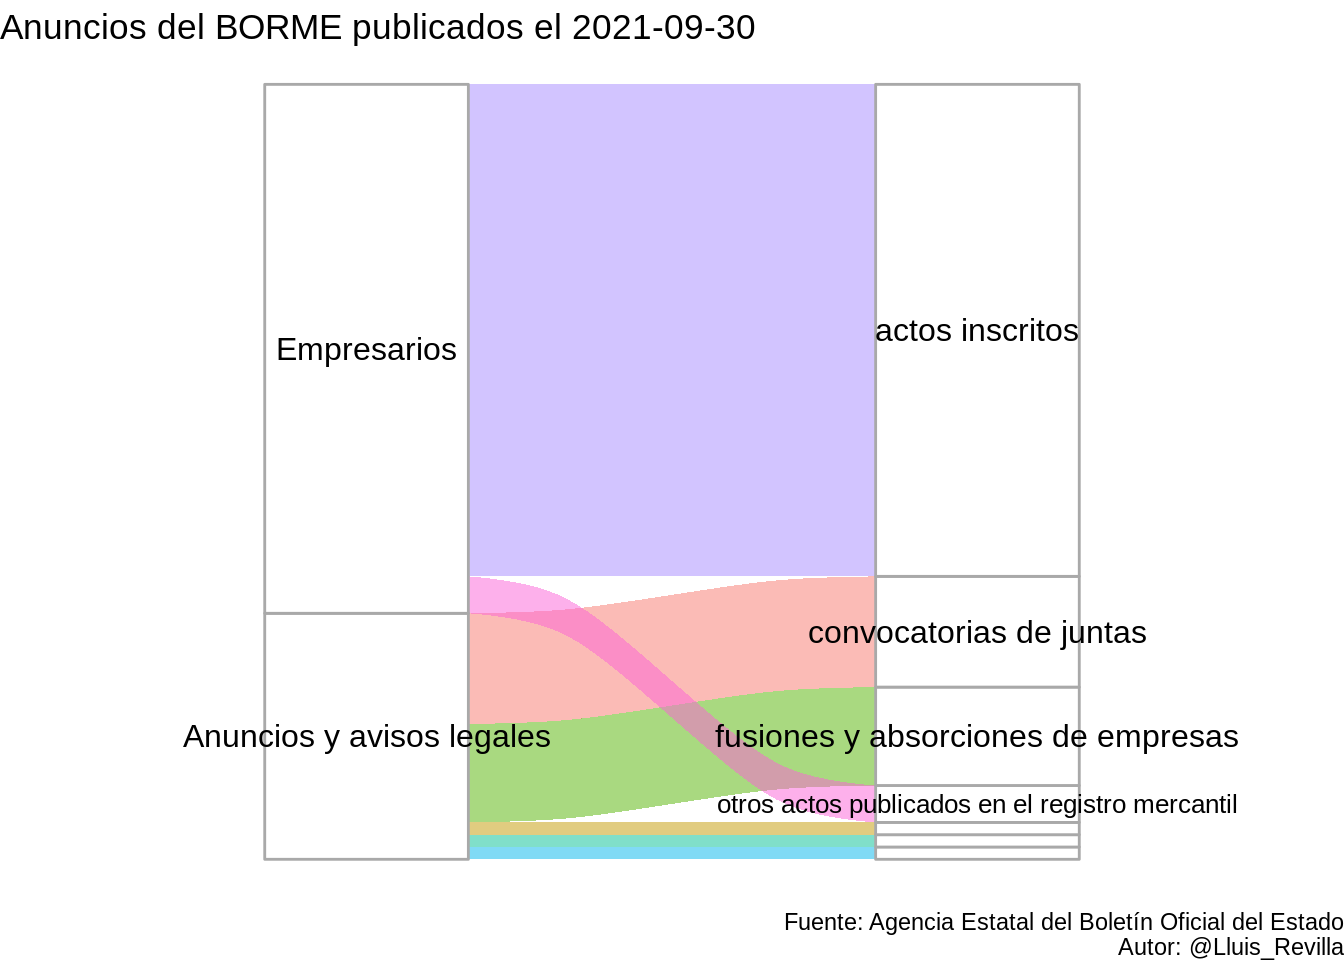
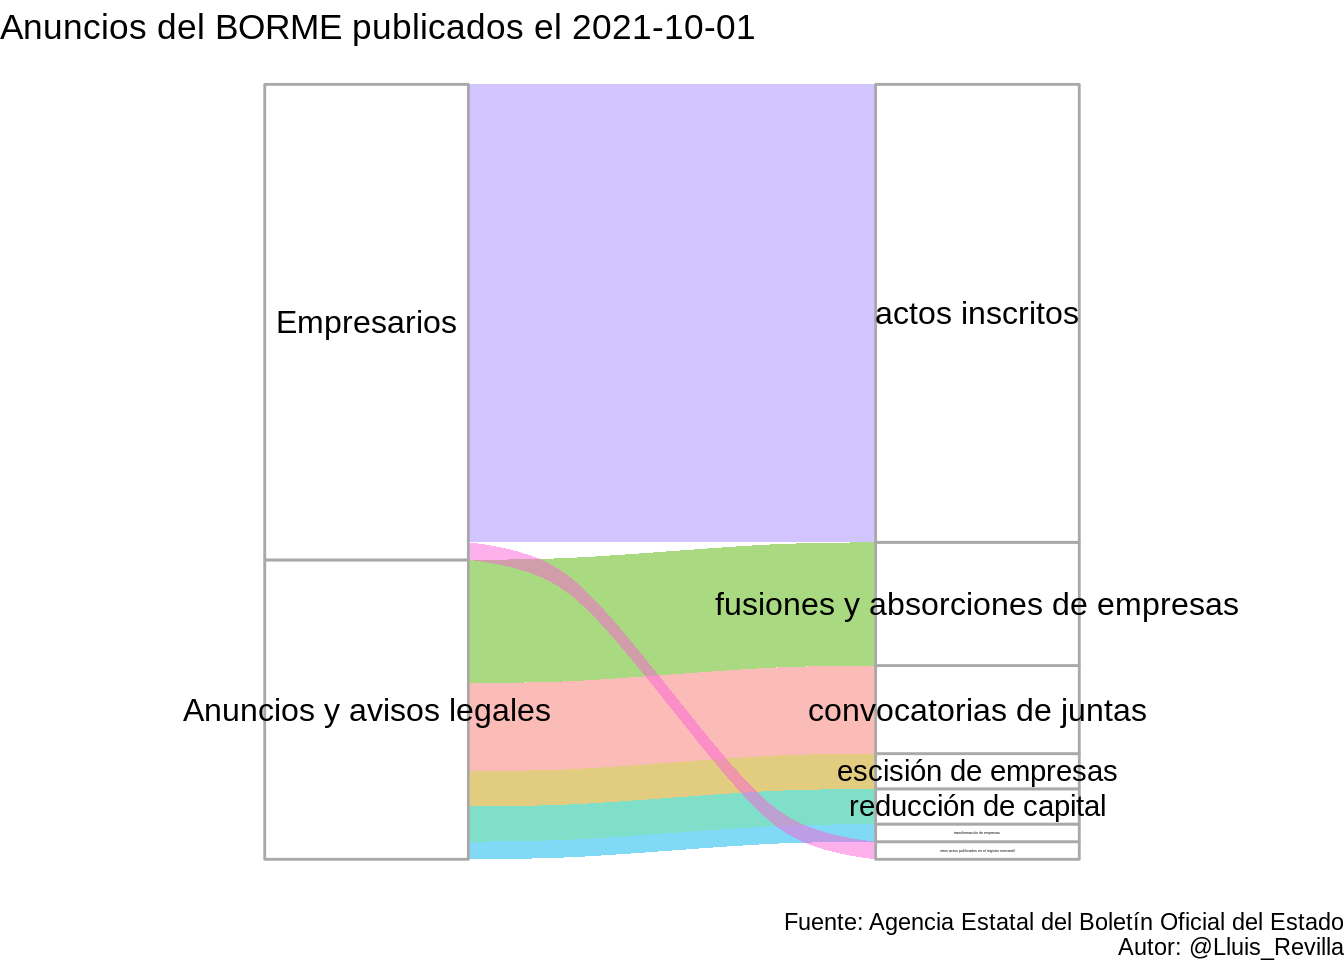
Automatic commit to update last BORME

diff --git a/docs/last_BORME.html b/docs/last_BORME.html
@@ -377,14 +377,14 @@ $(document).ready(function () {
 
 <div id="resumen-gráfico" class="section level1">
 <h1>Resumen gráfico</h1>
-<p>Esta página web contiene el último sumario del BORME publicado el 2021-09-30 con 63 publicaciones.</p>
+<p>Esta página web contiene el último sumario del BORME publicado el 2021-10-01 con 44 publicaciones.</p>
 <p><img src="last_BORME_files/figure-html/graphics-1.png" width="672" /></p>
 </div>
 <div id="tabla-de-publicaciones" class="section level1">
 <h1>Tabla de publicaciones</h1>
 <p>Aquí está la tabla completa con enlaces a las publicaciones:</p>
-<div id="htmlwidget-aa1e0ac43d76da0dd42a" style="width:100%;height:auto;" class="datatables html-widget"></div>
-<script type="application/json" data-for="htmlwidget-aa1e0ac43d76da0dd42a">{"x":{"filter":"top","filterHTML":"<tr>\n  <td><\/td>\n  <td data-type=\"character\" style=\"vertical-align: top;\">\n    <div class=\"form-group has-feedback\" style=\"margin-bottom: auto;\">\n      <input type=\"search\" placeholder=\"All\" class=\"form-control\" style=\"width: 100%;\"/>\n      <span class=\"glyphicon glyphicon-remove-circle form-control-feedback\"><\/span>\n    <\/div>\n  <\/td>\n  <td data-type=\"character\" style=\"vertical-align: top;\">\n    <div class=\"form-group has-feedback\" style=\"margin-bottom: auto;\">\n      <input type=\"search\" placeholder=\"All\" class=\"form-control\" style=\"width: 100%;\"/>\n      <span class=\"glyphicon glyphicon-remove-circle form-control-feedback\"><\/span>\n    <\/div>\n  <\/td>\n  <td data-type=\"character\" style=\"vertical-align: top;\">\n    <div class=\"form-group has-feedback\" style=\"margin-bottom: auto;\">\n      <input type=\"search\" placeholder=\"All\" class=\"form-control\" style=\"width: 100%;\"/>\n      <span class=\"glyphicon glyphicon-remove-circle form-control-feedback\"><\/span>\n    <\/div>\n  <\/td>\n  <td data-type=\"character\" style=\"vertical-align: top;\">\n    <div class=\"form-group has-feedback\" style=\"margin-bottom: auto;\">\n      <input type=\"search\" placeholder=\"All\" class=\"form-control\" style=\"width: 100%;\"/>\n      <span class=\"glyphicon glyphicon-remove-circle form-control-feedback\"><\/span>\n    <\/div>\n  <\/td>\n<\/tr>","data":[["1","2","3","4","5","6","7","8","9","10","11","12","13","14","15","16","17","18","19","20","21","22","23","24","25","26","27","28","29","30","31","32","33","34","35","36","37","38","39","40","41","42","43","44","45","46","47","48","49","50","51","52","53","54","55","56","57","58","59","60","61","62","63"],["SECCIÓN PRIMERA. Empresarios","SECCIÓN PRIMERA. Empresarios","SECCIÓN PRIMERA. Empresarios","SECCIÓN PRIMERA. Empresarios","SECCIÓN PRIMERA. Empresarios","SECCIÓN PRIMERA. Empresarios","SECCIÓN PRIMERA. Empresarios","SECCIÓN PRIMERA. Empresarios","SECCIÓN PRIMERA. Empresarios","SECCIÓN PRIMERA. Empresarios","SECCIÓN PRIMERA. Empresarios","SECCIÓN PRIMERA. Empresarios","SECCIÓN PRIMERA. Empresarios","SECCIÓN PRIMERA. Empresarios","SECCIÓN PRIMERA. Empresarios","SECCIÓN PRIMERA. Empresarios","SECCIÓN PRIMERA. Empresarios","SECCIÓN PRIMERA. Empresarios","SECCIÓN PRIMERA. Empresarios","SECCIÓN PRIMERA. Empresarios","SECCIÓN PRIMERA. Empresarios","SECCIÓN PRIMERA. Empresarios","SECCIÓN PRIMERA. Empresarios","SECCIÓN PRIMERA. Empresarios","SECCIÓN PRIMERA. Empresarios","SECCIÓN PRIMERA. Empresarios","SECCIÓN PRIMERA. Empresarios","SECCIÓN PRIMERA. Empresarios","SECCIÓN PRIMERA. Empresarios","SECCIÓN PRIMERA. Empresarios","SECCIÓN PRIMERA. Empresarios","SECCIÓN PRIMERA. Empresarios","SECCIÓN PRIMERA. Empresarios","SECCIÓN PRIMERA. Empresarios","SECCIÓN PRIMERA. Empresarios","SECCIÓN PRIMERA. Empresarios","SECCIÓN PRIMERA. Empresarios","SECCIÓN PRIMERA. Empresarios","SECCIÓN PRIMERA. Empresarios","SECCIÓN PRIMERA. Empresarios","SECCIÓN PRIMERA. Empresarios","SECCIÓN PRIMERA. Empresarios","SECCIÓN PRIMERA. Empresarios","SECCIÓN SEGUNDA. Anuncios y avisos legales","SECCIÓN SEGUNDA. Anuncios y avisos legales","SECCIÓN SEGUNDA. Anuncios y avisos legales","SECCIÓN SEGUNDA. Anuncios y avisos legales","SECCIÓN SEGUNDA. Anuncios y avisos legales","SECCIÓN SEGUNDA. Anuncios y avisos legales","SECCIÓN SEGUNDA. Anuncios y avisos legales","SECCIÓN SEGUNDA. Anuncios y avisos legales","SECCIÓN SEGUNDA. Anuncios y avisos legales","SECCIÓN SEGUNDA. Anuncios y avisos legales","SECCIÓN SEGUNDA. Anuncios y avisos legales","SECCIÓN SEGUNDA. Anuncios y avisos legales","SECCIÓN SEGUNDA. Anuncios y avisos legales","SECCIÓN SEGUNDA. Anuncios y avisos legales","SECCIÓN SEGUNDA. Anuncios y avisos legales","SECCIÓN SEGUNDA. Anuncios y avisos legales","SECCIÓN SEGUNDA. Anuncios y avisos legales","SECCIÓN SEGUNDA. Anuncios y avisos legales","SECCIÓN SEGUNDA. Anuncios y avisos legales","SECCIÓN SEGUNDA. Anuncios y avisos legales"],["Actos inscritos","Actos inscritos","Actos inscritos","Actos inscritos","Actos inscritos","Actos inscritos","Actos inscritos","Actos inscritos","Actos inscritos","Actos inscritos","Actos inscritos","Actos inscritos","Actos inscritos","Actos inscritos","Actos inscritos","Actos inscritos","Actos inscritos","Actos inscritos","Actos inscritos","Actos inscritos","Actos inscritos","Actos inscritos","Actos inscritos","Actos inscritos","Actos inscritos","Actos inscritos","Actos inscritos","Actos inscritos","Actos inscritos","Actos inscritos","Actos inscritos","Actos inscritos","Actos inscritos","Actos inscritos","Actos inscritos","Actos inscritos","Actos inscritos","Actos inscritos","Actos inscritos","Actos inscritos","Otros actos publicados en el Registro Mercantil","Otros actos publicados en el Registro Mercantil","Otros actos publicados en el Registro Mercantil","CONVOCATORIAS DE JUNTAS","CONVOCATORIAS DE JUNTAS","CONVOCATORIAS DE JUNTAS","CONVOCATORIAS DE JUNTAS","CONVOCATORIAS DE JUNTAS","CONVOCATORIAS DE JUNTAS","CONVOCATORIAS DE JUNTAS","CONVOCATORIAS DE JUNTAS","CONVOCATORIAS DE JUNTAS","FUSIONES Y ABSORCIONES DE EMPRESAS","FUSIONES Y ABSORCIONES DE EMPRESAS","FUSIONES Y ABSORCIONES DE EMPRESAS","FUSIONES Y ABSORCIONES DE EMPRESAS","FUSIONES Y ABSORCIONES DE EMPRESAS","FUSIONES Y ABSORCIONES DE EMPRESAS","FUSIONES Y ABSORCIONES DE EMPRESAS","FUSIONES Y ABSORCIONES DE EMPRESAS","ESCISIÓN DE EMPRESAS","TRANSFORMACIÓN DE EMPRESAS","REDUCCIÓN DE CAPITAL"],["ALBACETE","ALICANTE/ALACANT","ALMERÍA","ÁVILA","BADAJOZ","ILLES BALEARS","BURGOS","CÁDIZ","CASTELLÓN/CASTELLÓ","CIUDAD REAL","CÓRDOBA","A CORUÑA","CUENCA","GIRONA","GRANADA","GUADALAJARA","GIPUZKOA","HUESCA","JAÉN","LEÓN","LLEIDA","MADRID","MÁLAGA","MURCIA","OURENSE","ASTURIAS","PALENCIA","LAS PALMAS","PONTEVEDRA","SANTA CRUZ DE TENERIFE","CANTABRIA","SEGOVIA","SEVILLA","TARRAGONA","TOLEDO","VALENCIA/VALÈNCIA","VALLADOLID","ZARAGOZA","CEUTA","ÍNDICE ALFABÉTICO DE SOCIEDADES","CÁDIZ","MADRID","PONTEVEDRA","BS INVERSIÓN Y GESTIÓN, S.L. \r\n(EN LIQUIDACIÓN)","COLEGIO NUESTRA SEÑORA SANTA MARÍA, S.L.","DERAL 4824, S.L.","GAROA, S.A.","INDUSTRIAS ROKO, S.A.","INVERSIONES SEXTO SENTIDO, S.L.","TANGRAM INTERACTIVE, S.A.","TEMAR, S.A.","VALENCIANA DE TRANSPORTES GAS, S.A.","AK STEEL INTERNATIONAL, B.V. \r\n(SOCIEDAD ABSORBENTE) \r\nAK STEEL MERCHANDISING, S.A.U. \r\n(SOCIEDAD ABSORBIDA)","CAFETEROS DESDE 1933, S.L.U. \r\n(SOCIEDAD ABSORBENTE) \r\nFRIOSEVINATURAL, S.L.U. \r\n(SOCIEDAD ABSORBIDA)","MARS MULTISALES SPAIN, S.L.U. \r\n(SOCIEDAD ABSORBENTE) \r\nWRIGLEY CO, S.L.U. \r\n(SOCIEDAD ABSORBIDA)","PORTOCOBO RESORT, S.L.U. \r\n(SOCIEDAD ABSORBENTE) \r\nIBERTOWERS CANARIAS, S.L.U. \r\nDISCEFA LOGÍSTICA, S.L.U. \r\nDISCEFA LOGÍSTICA DOS, S.L.U. \r\n(SOCIEDADES ABSORBIDAS)","RODILLA SÁNCHEZ, S.L.U.\r\n(SOCIEDAD ABSORBENTE) \r\nALADA 1850, S.L.U.\r\n(SOCIEDAD ABSORBIDA)","RODILLA SÁNCHEZ, S.L.U.\r\n(SOCIEDAD ABSORBENTE) \r\nCAFETEROS DESDE 1933, S.L.U. \r\n(SOCIEDAD ABSORBIDA)","SAINT GOBAIN WEBER CEMARKSA, S.A. UNIPERSONAL\r\n(SOCIEDAD ABSORBENTE) \r\nPAI GUM, S.A. UNIPERSONAL\r\n(SOCIEDAD ABSORBIDA)","TRANSPARENT EDGE SERVICES, \r\nSOCIEDAD LIMITADA UNIPERSONAL \r\n(SOCIEDAD ABSORBENTE) \r\nTRANSPARENT CDN, SOCIEDAD LIMITADA \r\nRAIPSON SECURITY, SOCIEDAD LIMITADA \r\n(SOCIEDADES ABSORBIDAS)","TALLERES DIBER, S.L. \r\n(SOCIEDAD SEGREGADA) \r\nDIBER SOLUCIÓN INTEGRAL, S.L.U. \r\n(SOCIEDAD BENEFICIARIA)","SCHANZ &amp; KOHNE IMMOBILIEN MALLORCA, S.C.","SON RAMONELL, S.A."],["<a href=https://boe.es/borme/dias/2021/09/30/pdfs/BORME-A-2021-189-02.pdf>BORME-A-2021-189-02<\/a>","<a href=https://boe.es/borme/dias/2021/09/30/pdfs/BORME-A-2021-189-03.pdf>BORME-A-2021-189-03<\/a>","<a href=https://boe.es/borme/dias/2021/09/30/pdfs/BORME-A-2021-189-04.pdf>BORME-A-2021-189-04<\/a>","<a href=https://boe.es/borme/dias/2021/09/30/pdfs/BORME-A-2021-189-05.pdf>BORME-A-2021-189-05<\/a>","<a href=https://boe.es/borme/dias/2021/09/30/pdfs/BORME-A-2021-189-06.pdf>BORME-A-2021-189-06<\/a>","<a href=https://boe.es/borme/dias/2021/09/30/pdfs/BORME-A-2021-189-07.pdf>BORME-A-2021-189-07<\/a>","<a href=https://boe.es/borme/dias/2021/09/30/pdfs/BORME-A-2021-189-09.pdf>BORME-A-2021-189-09<\/a>","<a href=https://boe.es/borme/dias/2021/09/30/pdfs/BORME-A-2021-189-11.pdf>BORME-A-2021-189-11<\/a>","<a href=https://boe.es/borme/dias/2021/09/30/pdfs/BORME-A-2021-189-12.pdf>BORME-A-2021-189-12<\/a>","<a href=https://boe.es/borme/dias/2021/09/30/pdfs/BORME-A-2021-189-13.pdf>BORME-A-2021-189-13<\/a>","<a href=https://boe.es/borme/dias/2021/09/30/pdfs/BORME-A-2021-189-14.pdf>BORME-A-2021-189-14<\/a>","<a href=https://boe.es/borme/dias/2021/09/30/pdfs/BORME-A-2021-189-15.pdf>BORME-A-2021-189-15<\/a>","<a href=https://boe.es/borme/dias/2021/09/30/pdfs/BORME-A-2021-189-16.pdf>BORME-A-2021-189-16<\/a>","<a href=https://boe.es/borme/dias/2021/09/30/pdfs/BORME-A-2021-189-17.pdf>BORME-A-2021-189-17<\/a>","<a href=https://boe.es/borme/dias/2021/09/30/pdfs/BORME-A-2021-189-18.pdf>BORME-A-2021-189-18<\/a>","<a href=https://boe.es/borme/dias/2021/09/30/pdfs/BORME-A-2021-189-19.pdf>BORME-A-2021-189-19<\/a>","<a href=https://boe.es/borme/dias/2021/09/30/pdfs/BORME-A-2021-189-20.pdf>BORME-A-2021-189-20<\/a>","<a href=https://boe.es/borme/dias/2021/09/30/pdfs/BORME-A-2021-189-22.pdf>BORME-A-2021-189-22<\/a>","<a href=https://boe.es/borme/dias/2021/09/30/pdfs/BORME-A-2021-189-23.pdf>BORME-A-2021-189-23<\/a>","<a href=https://boe.es/borme/dias/2021/09/30/pdfs/BORME-A-2021-189-24.pdf>BORME-A-2021-189-24<\/a>","<a href=https://boe.es/borme/dias/2021/09/30/pdfs/BORME-A-2021-189-25.pdf>BORME-A-2021-189-25<\/a>","<a href=https://boe.es/borme/dias/2021/09/30/pdfs/BORME-A-2021-189-28.pdf>BORME-A-2021-189-28<\/a>","<a href=https://boe.es/borme/dias/2021/09/30/pdfs/BORME-A-2021-189-29.pdf>BORME-A-2021-189-29<\/a>","<a href=https://boe.es/borme/dias/2021/09/30/pdfs/BORME-A-2021-189-30.pdf>BORME-A-2021-189-30<\/a>","<a href=https://boe.es/borme/dias/2021/09/30/pdfs/BORME-A-2021-189-32.pdf>BORME-A-2021-189-32<\/a>","<a href=https://boe.es/borme/dias/2021/09/30/pdfs/BORME-A-2021-189-33.pdf>BORME-A-2021-189-33<\/a>","<a href=https://boe.es/borme/dias/2021/09/30/pdfs/BORME-A-2021-189-34.pdf>BORME-A-2021-189-34<\/a>","<a href=https://boe.es/borme/dias/2021/09/30/pdfs/BORME-A-2021-189-35.pdf>BORME-A-2021-189-35<\/a>","<a href=https://boe.es/borme/dias/2021/09/30/pdfs/BORME-A-2021-189-36.pdf>BORME-A-2021-189-36<\/a>","<a href=https://boe.es/borme/dias/2021/09/30/pdfs/BORME-A-2021-189-38.pdf>BORME-A-2021-189-38<\/a>","<a href=https://boe.es/borme/dias/2021/09/30/pdfs/BORME-A-2021-189-39.pdf>BORME-A-2021-189-39<\/a>","<a href=https://boe.es/borme/dias/2021/09/30/pdfs/BORME-A-2021-189-40.pdf>BORME-A-2021-189-40<\/a>","<a href=https://boe.es/borme/dias/2021/09/30/pdfs/BORME-A-2021-189-41.pdf>BORME-A-2021-189-41<\/a>","<a href=https://boe.es/borme/dias/2021/09/30/pdfs/BORME-A-2021-189-43.pdf>BORME-A-2021-189-43<\/a>","<a href=https://boe.es/borme/dias/2021/09/30/pdfs/BORME-A-2021-189-45.pdf>BORME-A-2021-189-45<\/a>","<a href=https://boe.es/borme/dias/2021/09/30/pdfs/BORME-A-2021-189-46.pdf>BORME-A-2021-189-46<\/a>","<a href=https://boe.es/borme/dias/2021/09/30/pdfs/BORME-A-2021-189-47.pdf>BORME-A-2021-189-47<\/a>","<a href=https://boe.es/borme/dias/2021/09/30/pdfs/BORME-A-2021-189-50.pdf>BORME-A-2021-189-50<\/a>","<a href=https://boe.es/borme/dias/2021/09/30/pdfs/BORME-A-2021-189-51.pdf>BORME-A-2021-189-51<\/a>","<a href=https://boe.es/borme/dias/2021/09/30/pdfs/BORME-A-2021-189-99.pdf>BORME-A-2021-189-99<\/a>","<a href=https://boe.es/borme/dias/2021/09/30/pdfs/BORME-B-2021-189-11.pdf>BORME-B-2021-189-11<\/a>","<a href=https://boe.es/borme/dias/2021/09/30/pdfs/BORME-B-2021-189-28.pdf>BORME-B-2021-189-28<\/a>","<a href=https://boe.es/borme/dias/2021/09/30/pdfs/BORME-B-2021-189-36.pdf>BORME-B-2021-189-36<\/a>","<a href=https://boe.es/borme/dias/2021/09/30/pdfs/BORME-C-2021-6516.pdf>BORME-C-2021-6516<\/a>","<a href=https://boe.es/borme/dias/2021/09/30/pdfs/BORME-C-2021-6517.pdf>BORME-C-2021-6517<\/a>","<a href=https://boe.es/borme/dias/2021/09/30/pdfs/BORME-C-2021-6518.pdf>BORME-C-2021-6518<\/a>","<a href=https://boe.es/borme/dias/2021/09/30/pdfs/BORME-C-2021-6519.pdf>BORME-C-2021-6519<\/a>","<a href=https://boe.es/borme/dias/2021/09/30/pdfs/BORME-C-2021-6520.pdf>BORME-C-2021-6520<\/a>","<a href=https://boe.es/borme/dias/2021/09/30/pdfs/BORME-C-2021-6521.pdf>BORME-C-2021-6521<\/a>","<a href=https://boe.es/borme/dias/2021/09/30/pdfs/BORME-C-2021-6522.pdf>BORME-C-2021-6522<\/a>","<a href=https://boe.es/borme/dias/2021/09/30/pdfs/BORME-C-2021-6523.pdf>BORME-C-2021-6523<\/a>","<a href=https://boe.es/borme/dias/2021/09/30/pdfs/BORME-C-2021-6524.pdf>BORME-C-2021-6524<\/a>","<a href=https://boe.es/borme/dias/2021/09/30/pdfs/BORME-C-2021-6525.pdf>BORME-C-2021-6525<\/a>","<a href=https://boe.es/borme/dias/2021/09/30/pdfs/BORME-C-2021-6526.pdf>BORME-C-2021-6526<\/a>","<a href=https://boe.es/borme/dias/2021/09/30/pdfs/BORME-C-2021-6527.pdf>BORME-C-2021-6527<\/a>","<a href=https://boe.es/borme/dias/2021/09/30/pdfs/BORME-C-2021-6528.pdf>BORME-C-2021-6528<\/a>","<a href=https://boe.es/borme/dias/2021/09/30/pdfs/BORME-C-2021-6529.pdf>BORME-C-2021-6529<\/a>","<a href=https://boe.es/borme/dias/2021/09/30/pdfs/BORME-C-2021-6530.pdf>BORME-C-2021-6530<\/a>","<a href=https://boe.es/borme/dias/2021/09/30/pdfs/BORME-C-2021-6531.pdf>BORME-C-2021-6531<\/a>","<a href=https://boe.es/borme/dias/2021/09/30/pdfs/BORME-C-2021-6532.pdf>BORME-C-2021-6532<\/a>","<a href=https://boe.es/borme/dias/2021/09/30/pdfs/BORME-C-2021-6533.pdf>BORME-C-2021-6533<\/a>","<a href=https://boe.es/borme/dias/2021/09/30/pdfs/BORME-C-2021-6534.pdf>BORME-C-2021-6534<\/a>","<a href=https://boe.es/borme/dias/2021/09/30/pdfs/BORME-C-2021-6535.pdf>BORME-C-2021-6535<\/a>"]],"container":"<table class=\"display\">\n  <thead>\n    <tr>\n      <th> <\/th>\n      <th>Sección<\/th>\n      <th>Emisor<\/th>\n      <th>Texto<\/th>\n      <th>Link<\/th>\n    <\/tr>\n  <\/thead>\n<\/table>","options":{"pageLength":10,"autoWidth":true,"order":[],"orderClasses":false,"columnDefs":[{"orderable":false,"targets":0}],"orderCellsTop":true}},"evals":[],"jsHooks":[]}</script>
+<div id="htmlwidget-624ccf98896523aea11f" style="width:100%;height:auto;" class="datatables html-widget"></div>
+<script type="application/json" data-for="htmlwidget-624ccf98896523aea11f">{"x":{"filter":"top","filterHTML":"<tr>\n  <td><\/td>\n  <td data-type=\"character\" style=\"vertical-align: top;\">\n    <div class=\"form-group has-feedback\" style=\"margin-bottom: auto;\">\n      <input type=\"search\" placeholder=\"All\" class=\"form-control\" style=\"width: 100%;\"/>\n      <span class=\"glyphicon glyphicon-remove-circle form-control-feedback\"><\/span>\n    <\/div>\n  <\/td>\n  <td data-type=\"character\" style=\"vertical-align: top;\">\n    <div class=\"form-group has-feedback\" style=\"margin-bottom: auto;\">\n      <input type=\"search\" placeholder=\"All\" class=\"form-control\" style=\"width: 100%;\"/>\n      <span class=\"glyphicon glyphicon-remove-circle form-control-feedback\"><\/span>\n    <\/div>\n  <\/td>\n  <td data-type=\"character\" style=\"vertical-align: top;\">\n    <div class=\"form-group has-feedback\" style=\"margin-bottom: auto;\">\n      <input type=\"search\" placeholder=\"All\" class=\"form-control\" style=\"width: 100%;\"/>\n      <span class=\"glyphicon glyphicon-remove-circle form-control-feedback\"><\/span>\n    <\/div>\n  <\/td>\n  <td data-type=\"character\" style=\"vertical-align: top;\">\n    <div class=\"form-group has-feedback\" style=\"margin-bottom: auto;\">\n      <input type=\"search\" placeholder=\"All\" class=\"form-control\" style=\"width: 100%;\"/>\n      <span class=\"glyphicon glyphicon-remove-circle form-control-feedback\"><\/span>\n    <\/div>\n  <\/td>\n<\/tr>","data":[["1","2","3","4","5","6","7","8","9","10","11","12","13","14","15","16","17","18","19","20","21","22","23","24","25","26","27","28","29","30","31","32","33","34","35","36","37","38","39","40","41","42","43","44"],["SECCIÓN PRIMERA. Empresarios","SECCIÓN PRIMERA. Empresarios","SECCIÓN PRIMERA. Empresarios","SECCIÓN PRIMERA. Empresarios","SECCIÓN PRIMERA. Empresarios","SECCIÓN PRIMERA. Empresarios","SECCIÓN PRIMERA. Empresarios","SECCIÓN PRIMERA. Empresarios","SECCIÓN PRIMERA. Empresarios","SECCIÓN PRIMERA. Empresarios","SECCIÓN PRIMERA. Empresarios","SECCIÓN PRIMERA. Empresarios","SECCIÓN PRIMERA. Empresarios","SECCIÓN PRIMERA. Empresarios","SECCIÓN PRIMERA. Empresarios","SECCIÓN PRIMERA. Empresarios","SECCIÓN PRIMERA. Empresarios","SECCIÓN PRIMERA. Empresarios","SECCIÓN PRIMERA. Empresarios","SECCIÓN PRIMERA. Empresarios","SECCIÓN PRIMERA. Empresarios","SECCIÓN PRIMERA. Empresarios","SECCIÓN PRIMERA. Empresarios","SECCIÓN PRIMERA. Empresarios","SECCIÓN PRIMERA. Empresarios","SECCIÓN PRIMERA. Empresarios","SECCIÓN PRIMERA. Empresarios","SECCIÓN SEGUNDA. Anuncios y avisos legales","SECCIÓN SEGUNDA. Anuncios y avisos legales","SECCIÓN SEGUNDA. Anuncios y avisos legales","SECCIÓN SEGUNDA. Anuncios y avisos legales","SECCIÓN SEGUNDA. Anuncios y avisos legales","SECCIÓN SEGUNDA. Anuncios y avisos legales","SECCIÓN SEGUNDA. Anuncios y avisos legales","SECCIÓN SEGUNDA. Anuncios y avisos legales","SECCIÓN SEGUNDA. Anuncios y avisos legales","SECCIÓN SEGUNDA. Anuncios y avisos legales","SECCIÓN SEGUNDA. Anuncios y avisos legales","SECCIÓN SEGUNDA. Anuncios y avisos legales","SECCIÓN SEGUNDA. Anuncios y avisos legales","SECCIÓN SEGUNDA. Anuncios y avisos legales","SECCIÓN SEGUNDA. Anuncios y avisos legales","SECCIÓN SEGUNDA. Anuncios y avisos legales","SECCIÓN SEGUNDA. Anuncios y avisos legales"],["Actos inscritos","Actos inscritos","Actos inscritos","Actos inscritos","Actos inscritos","Actos inscritos","Actos inscritos","Actos inscritos","Actos inscritos","Actos inscritos","Actos inscritos","Actos inscritos","Actos inscritos","Actos inscritos","Actos inscritos","Actos inscritos","Actos inscritos","Actos inscritos","Actos inscritos","Actos inscritos","Actos inscritos","Actos inscritos","Actos inscritos","Actos inscritos","Actos inscritos","Actos inscritos","Otros actos publicados en el Registro Mercantil","CONVOCATORIAS DE JUNTAS","CONVOCATORIAS DE JUNTAS","CONVOCATORIAS DE JUNTAS","CONVOCATORIAS DE JUNTAS","CONVOCATORIAS DE JUNTAS","FUSIONES Y ABSORCIONES DE EMPRESAS","FUSIONES Y ABSORCIONES DE EMPRESAS","FUSIONES Y ABSORCIONES DE EMPRESAS","FUSIONES Y ABSORCIONES DE EMPRESAS","FUSIONES Y ABSORCIONES DE EMPRESAS","FUSIONES Y ABSORCIONES DE EMPRESAS","FUSIONES Y ABSORCIONES DE EMPRESAS","ESCISIÓN DE EMPRESAS","ESCISIÓN DE EMPRESAS","TRANSFORMACIÓN DE EMPRESAS","REDUCCIÓN DE CAPITAL","REDUCCIÓN DE CAPITAL"],["ALBACETE","ALICANTE/ALACANT","ALMERÍA","BADAJOZ","ILLES BALEARS","BARCELONA","CÓRDOBA","A CORUÑA","GIRONA","GRANADA","JAÉN","LEÓN","MADRID","MÁLAGA","NAVARRA","OURENSE","ASTURIAS","LAS PALMAS","PONTEVEDRA","SALAMANCA","SEGOVIA","SEVILLA","SORIA","VALENCIA/VALÈNCIA","ZAMORA","ÍNDICE ALFABÉTICO DE SOCIEDADES","MADRID","CAINALES, S.A.","COLINA DEL SOL, SOCIEDAD ANÓNIMA","COMPAÑÍA DE ABASTECIMIENTO DE AGUAS POTABLES \r\nDE LA MANGA DEL MAR MENOR, S.A.","FRACTUS, S.A.","TRIPECORK, S.A.","ESTRELLA DE CASARES, S.L. \r\n(SOCIEDAD ABSORBENTE) \r\nCOSTA ESTRELLA, S.L.U. \r\n(SOCIEDAD ABSORBIDA)","FECLA, S.L.U.\r\n(SOCIEDAD ABSORBENTE) \r\nEXPOCOCUP, S.L.\r\n(SOCIEDAD ABSORBIDA)","ITP GESTIÓN COMERCIAL Y FINANCIERA, S.L. \r\n(SOCIEDAD ABSORBENTE) \r\nSOFAMI CONSULTORES, S.L. \r\n(SOCIEDAD ABSORBIDA)","MOVILIDAD DE EXTREMADURA DE RECICLAJE DE APARATOS ELÉCTRICOS Y ELECTRÓNICOS, SOCIEDAD LIMITADA \r\n(SOCIEDAD ABSORBENTE) \r\nMOVILEX RECYCLING ESPAÑA, S.L.U. \r\n(SOCIEDAD ABSORBIDA)","NEXTMUNE, SOCIEDAD LIMITADA UNIPERSONAL \r\n(SOCIEDAD ABSORBENTE) \r\nDIAGNÓSTICO Y APLICACIONES DE VETERINARIA, SOCIEDAD LIMITADA UNIPERSONAL \r\n(SOCIEDAD ABSORBIDA)","RISPARTUING, S.L. SOCIEDAD UNIPERSONAL\r\n(SOCIEDAD ABSORBENTE) \r\nFRAGUM V, B.V.\r\n(SOCIEDAD ABSORBIDA)","TELIO IBERIA, S.L.U. \r\n(SOCIEDAD ABSORBENTE) \r\nCALYPSO SERVICES SPAIN, S.L.U. \r\n(SOCIEDAD ABSORBIDA)","FARGUELL INDUSTRIAS METÁLICAS, S.A. \r\n(SOCIEDAD ESCINDIDA) \r\nFARGUELL GROUP 2021, S.L. \r\n(SOCIEDAD BENEFICIARIA)","INMOAN, S.L. \r\n(SOCIEDAD SEGREGADA) \r\nRED ELECTRÓNICA DE SERVICIOS AVANZADOS, S.L.U. \r\n(SOCIEDAD BENEFICIARIA) \r\nEXPLOTACIONES SAN ANTÓN, S.L.U. \r\n(SOCIEDAD BENEFICIARIA DE NUEVA CREACIÓN)","HANNUN, S.L.","CALIQUA, S.A.","COMPAÑÍA VINÍCOLA DEL NORTE DE ESPAÑA, S.A."],["<a href=https://boe.es/borme/dias/2021/10/01/pdfs/BORME-A-2021-190-02.pdf>BORME-A-2021-190-02<\/a>","<a href=https://boe.es/borme/dias/2021/10/01/pdfs/BORME-A-2021-190-03.pdf>BORME-A-2021-190-03<\/a>","<a href=https://boe.es/borme/dias/2021/10/01/pdfs/BORME-A-2021-190-04.pdf>BORME-A-2021-190-04<\/a>","<a href=https://boe.es/borme/dias/2021/10/01/pdfs/BORME-A-2021-190-06.pdf>BORME-A-2021-190-06<\/a>","<a href=https://boe.es/borme/dias/2021/10/01/pdfs/BORME-A-2021-190-07.pdf>BORME-A-2021-190-07<\/a>","<a href=https://boe.es/borme/dias/2021/10/01/pdfs/BORME-A-2021-190-08.pdf>BORME-A-2021-190-08<\/a>","<a href=https://boe.es/borme/dias/2021/10/01/pdfs/BORME-A-2021-190-14.pdf>BORME-A-2021-190-14<\/a>","<a href=https://boe.es/borme/dias/2021/10/01/pdfs/BORME-A-2021-190-15.pdf>BORME-A-2021-190-15<\/a>","<a href=https://boe.es/borme/dias/2021/10/01/pdfs/BORME-A-2021-190-17.pdf>BORME-A-2021-190-17<\/a>","<a href=https://boe.es/borme/dias/2021/10/01/pdfs/BORME-A-2021-190-18.pdf>BORME-A-2021-190-18<\/a>","<a href=https://boe.es/borme/dias/2021/10/01/pdfs/BORME-A-2021-190-23.pdf>BORME-A-2021-190-23<\/a>","<a href=https://boe.es/borme/dias/2021/10/01/pdfs/BORME-A-2021-190-24.pdf>BORME-A-2021-190-24<\/a>","<a href=https://boe.es/borme/dias/2021/10/01/pdfs/BORME-A-2021-190-28.pdf>BORME-A-2021-190-28<\/a>","<a href=https://boe.es/borme/dias/2021/10/01/pdfs/BORME-A-2021-190-29.pdf>BORME-A-2021-190-29<\/a>","<a href=https://boe.es/borme/dias/2021/10/01/pdfs/BORME-A-2021-190-31.pdf>BORME-A-2021-190-31<\/a>","<a href=https://boe.es/borme/dias/2021/10/01/pdfs/BORME-A-2021-190-32.pdf>BORME-A-2021-190-32<\/a>","<a href=https://boe.es/borme/dias/2021/10/01/pdfs/BORME-A-2021-190-33.pdf>BORME-A-2021-190-33<\/a>","<a href=https://boe.es/borme/dias/2021/10/01/pdfs/BORME-A-2021-190-35.pdf>BORME-A-2021-190-35<\/a>","<a href=https://boe.es/borme/dias/2021/10/01/pdfs/BORME-A-2021-190-36.pdf>BORME-A-2021-190-36<\/a>","<a href=https://boe.es/borme/dias/2021/10/01/pdfs/BORME-A-2021-190-37.pdf>BORME-A-2021-190-37<\/a>","<a href=https://boe.es/borme/dias/2021/10/01/pdfs/BORME-A-2021-190-40.pdf>BORME-A-2021-190-40<\/a>","<a href=https://boe.es/borme/dias/2021/10/01/pdfs/BORME-A-2021-190-41.pdf>BORME-A-2021-190-41<\/a>","<a href=https://boe.es/borme/dias/2021/10/01/pdfs/BORME-A-2021-190-42.pdf>BORME-A-2021-190-42<\/a>","<a href=https://boe.es/borme/dias/2021/10/01/pdfs/BORME-A-2021-190-46.pdf>BORME-A-2021-190-46<\/a>","<a href=https://boe.es/borme/dias/2021/10/01/pdfs/BORME-A-2021-190-49.pdf>BORME-A-2021-190-49<\/a>","<a href=https://boe.es/borme/dias/2021/10/01/pdfs/BORME-A-2021-190-99.pdf>BORME-A-2021-190-99<\/a>","<a href=https://boe.es/borme/dias/2021/10/01/pdfs/BORME-B-2021-190-28.pdf>BORME-B-2021-190-28<\/a>","<a href=https://boe.es/borme/dias/2021/10/01/pdfs/BORME-C-2021-6536.pdf>BORME-C-2021-6536<\/a>","<a href=https://boe.es/borme/dias/2021/10/01/pdfs/BORME-C-2021-6537.pdf>BORME-C-2021-6537<\/a>","<a href=https://boe.es/borme/dias/2021/10/01/pdfs/BORME-C-2021-6538.pdf>BORME-C-2021-6538<\/a>","<a href=https://boe.es/borme/dias/2021/10/01/pdfs/BORME-C-2021-6539.pdf>BORME-C-2021-6539<\/a>","<a href=https://boe.es/borme/dias/2021/10/01/pdfs/BORME-C-2021-6540.pdf>BORME-C-2021-6540<\/a>","<a href=https://boe.es/borme/dias/2021/10/01/pdfs/BORME-C-2021-6541.pdf>BORME-C-2021-6541<\/a>","<a href=https://boe.es/borme/dias/2021/10/01/pdfs/BORME-C-2021-6542.pdf>BORME-C-2021-6542<\/a>","<a href=https://boe.es/borme/dias/2021/10/01/pdfs/BORME-C-2021-6543.pdf>BORME-C-2021-6543<\/a>","<a href=https://boe.es/borme/dias/2021/10/01/pdfs/BORME-C-2021-6544.pdf>BORME-C-2021-6544<\/a>","<a href=https://boe.es/borme/dias/2021/10/01/pdfs/BORME-C-2021-6545.pdf>BORME-C-2021-6545<\/a>","<a href=https://boe.es/borme/dias/2021/10/01/pdfs/BORME-C-2021-6546.pdf>BORME-C-2021-6546<\/a>","<a href=https://boe.es/borme/dias/2021/10/01/pdfs/BORME-C-2021-6547.pdf>BORME-C-2021-6547<\/a>","<a href=https://boe.es/borme/dias/2021/10/01/pdfs/BORME-C-2021-6548.pdf>BORME-C-2021-6548<\/a>","<a href=https://boe.es/borme/dias/2021/10/01/pdfs/BORME-C-2021-6549.pdf>BORME-C-2021-6549<\/a>","<a href=https://boe.es/borme/dias/2021/10/01/pdfs/BORME-C-2021-6550.pdf>BORME-C-2021-6550<\/a>","<a href=https://boe.es/borme/dias/2021/10/01/pdfs/BORME-C-2021-6551.pdf>BORME-C-2021-6551<\/a>","<a href=https://boe.es/borme/dias/2021/10/01/pdfs/BORME-C-2021-6552.pdf>BORME-C-2021-6552<\/a>"]],"container":"<table class=\"display\">\n  <thead>\n    <tr>\n      <th> <\/th>\n      <th>Sección<\/th>\n      <th>Emisor<\/th>\n      <th>Texto<\/th>\n      <th>Link<\/th>\n    <\/tr>\n  <\/thead>\n<\/table>","options":{"pageLength":10,"autoWidth":true,"order":[],"orderClasses":false,"columnDefs":[{"orderable":false,"targets":0}],"orderCellsTop":true}},"evals":[],"jsHooks":[]}</script>
 </div>
 
 
